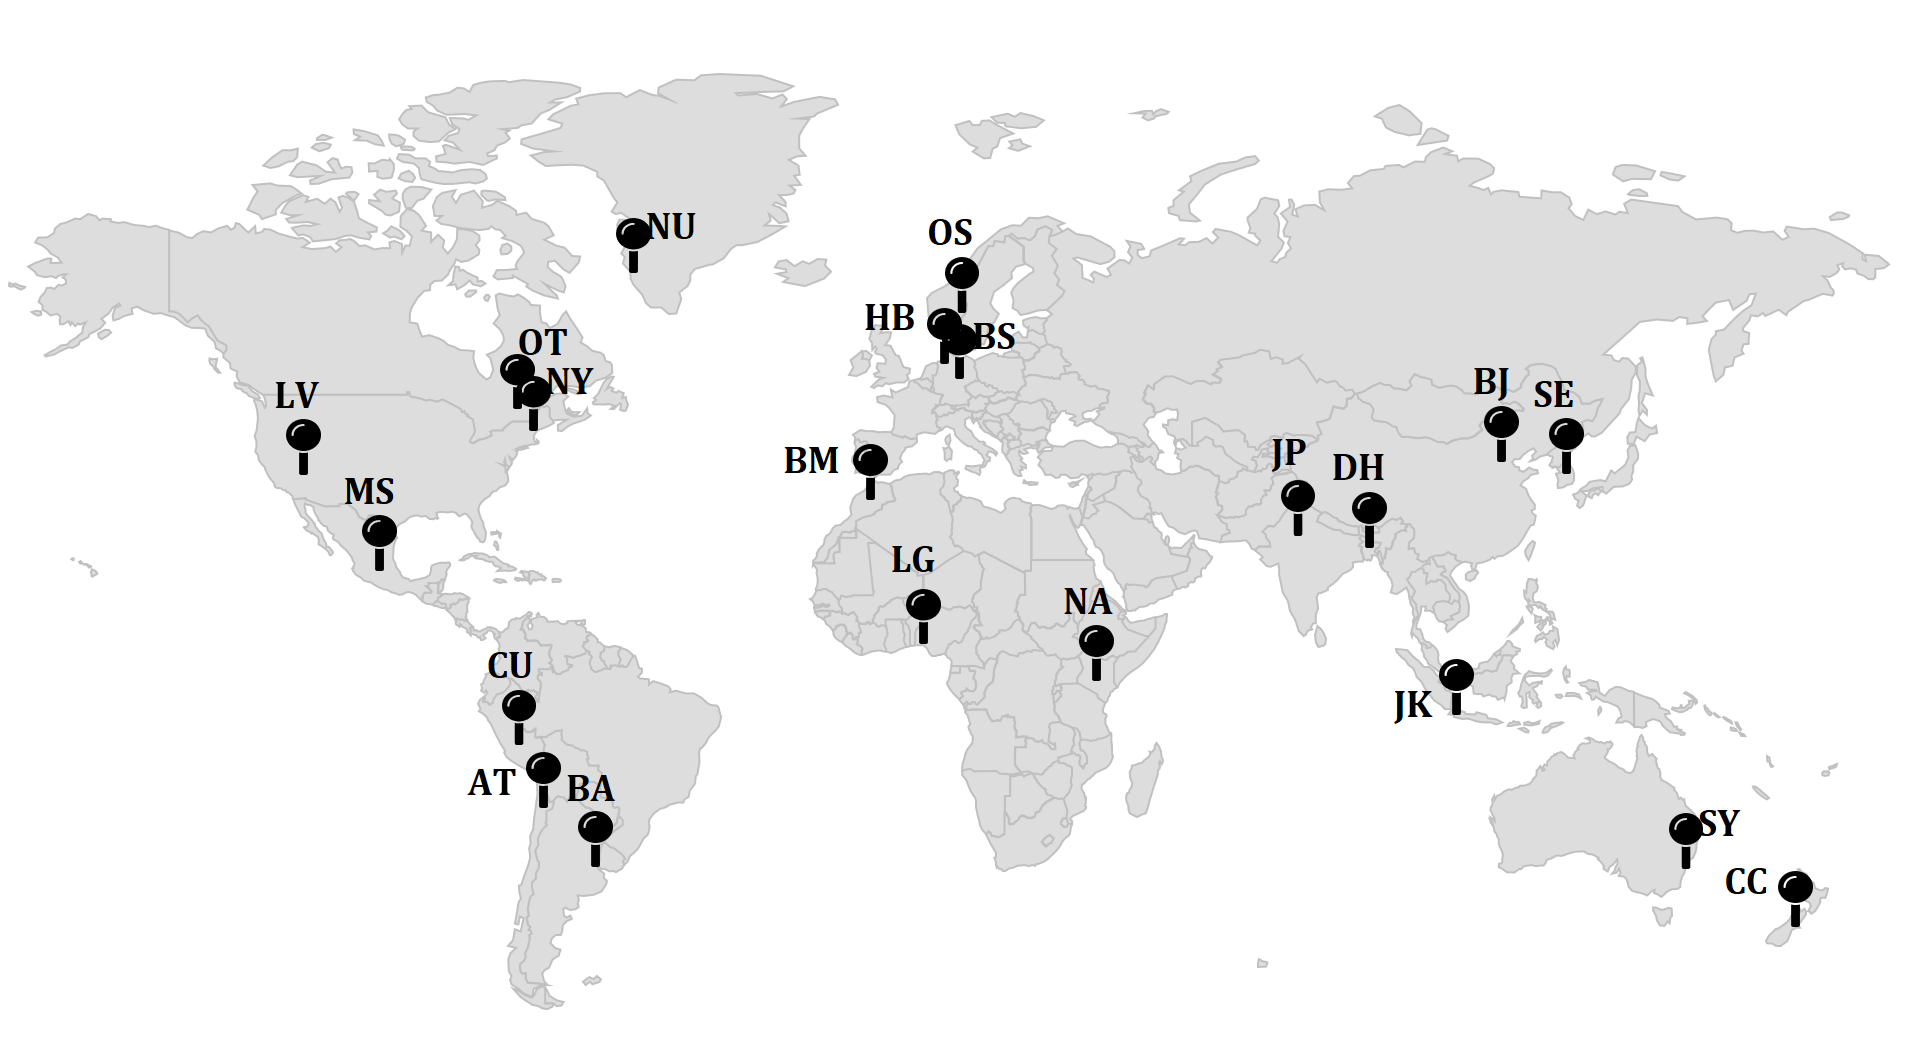
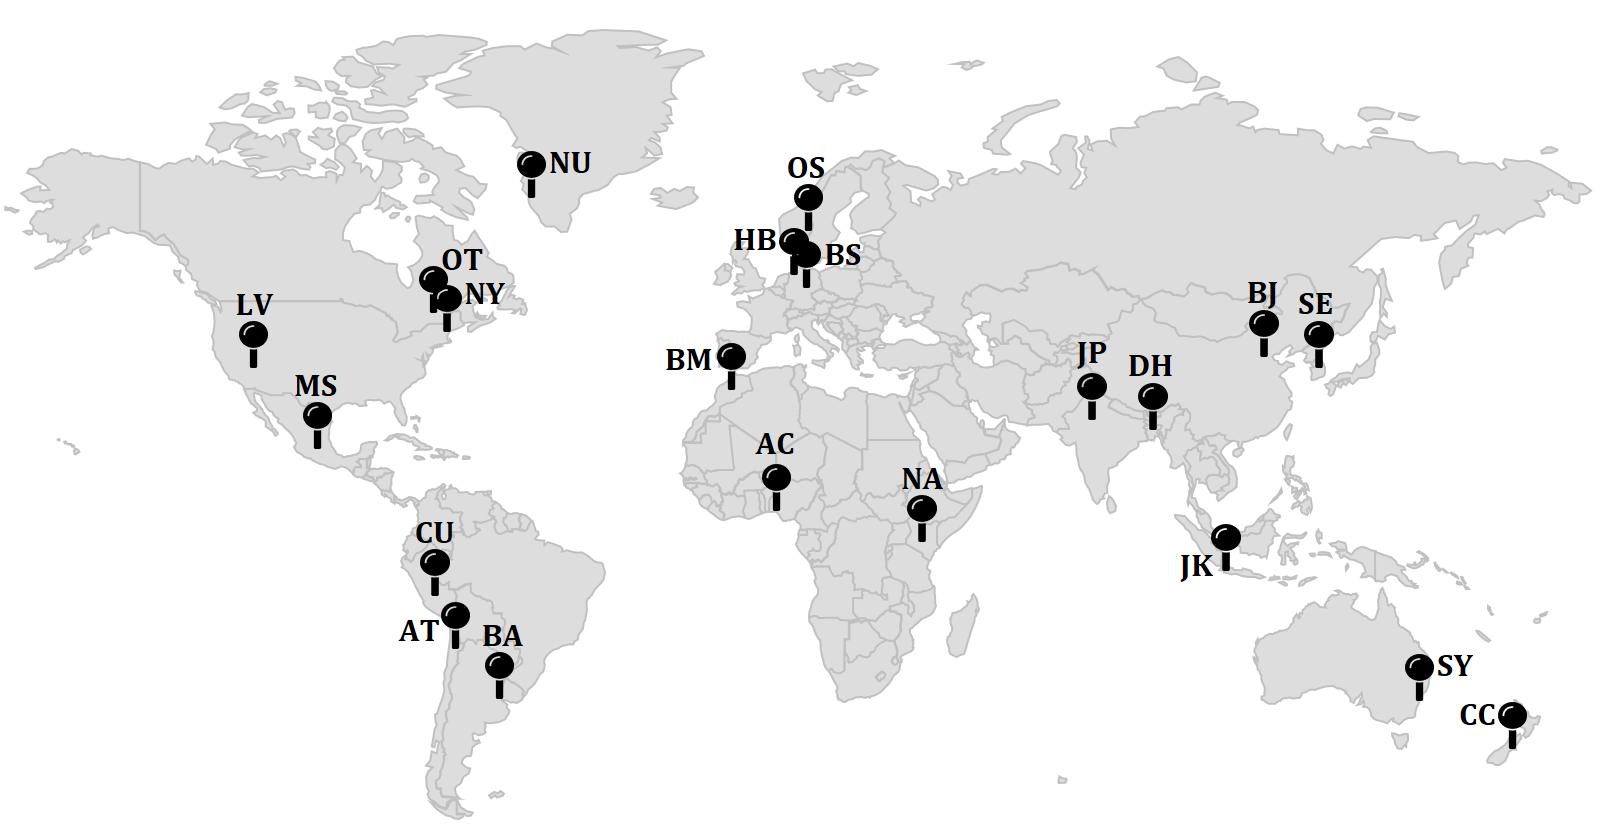
corrected small error in location

diff --git a/README.md b/README.md
@@ -1,7 +1,5 @@
 # Assessment of scale up and relocation of technical building services (TBS) for battery cell production
 
-[![License](http://img.shields.io/:license-mit-blue.svg)](http://doge.mit-license.org)
-
 This folder contains comprehensive static and temporal data about the energy and power demand of TBS, 
 in particular HVAC systems supplying dry rooms for battery production.
 22 locations around the world are considered and 10 size scales are available for each location. In addition, for each size scale
@@ -17,7 +15,7 @@ The following world map shows the considered locations and abbreviations used in
 |----|--------------------|----|----------------------|----|---------------|----|-------------------|----|--------------------|
 | HB | Bremen (GER)       | OT | Ottawa (CAN)         | JK | Jarkata (IND) | BM | Beni Mellal (MAR) | CC | Christchurch (NZL) |
 | BA | Buenos Aires (ARG) | AT | Atacama Desert (CHL) | JP | Jaipur (IND)  | MS | Mexico City (MEX) | CU | Cusco (PER)        |
-| SY | Sydney (AUS)       | BJ | Beijing (CHN)        | NA | Nairobi (KEN) | LG | Lagos (NGA)       | LV | Las Vegas (USA)    |
+| SY | Sydney (AUS)       | BJ | Beijing (CHN)        | NA | Nairobi (KEN) | AC | Accra (GHA)       | LV | Las Vegas (USA)    |
 | NY | New York (USA)     |
 
 This folder is organised as follows:
@@ -28,7 +26,7 @@ dataSetTBSbatteryCellProduction
 |   energeticEvaluationsMultiOutputRegression.py
 │   manualAnalysis.py
 │   README.md
-│   License
+│   License.md
 │   environment.yml
 │
 └───data
@@ -89,7 +87,6 @@ the system diagram of the underlying HVAC system is shown in the following Figur
 
 ![HVAC system components and scaling factor S and load scaling factor L](./images/PhysicalSystemBLBComponents.PNG "HVAC system components and scaling")
 **Figure 2:** HVAC system components and scaling with scaling factor `S` and load scaling factor `L`
-
 
 ## Detailed documentation of the available data
 
